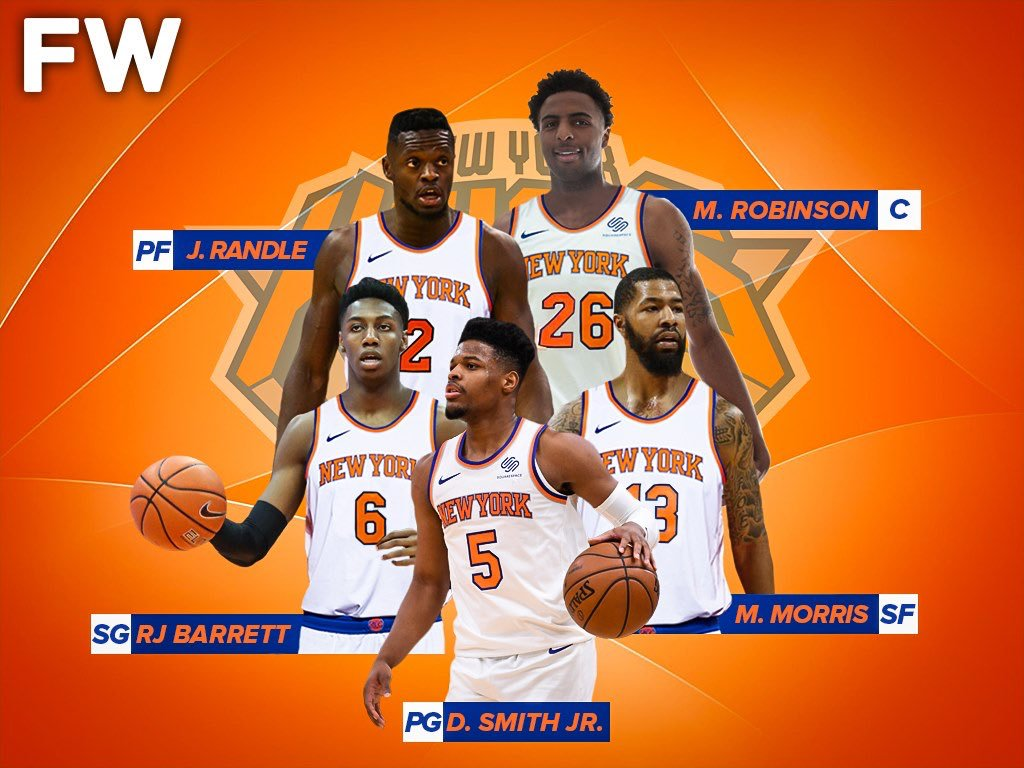
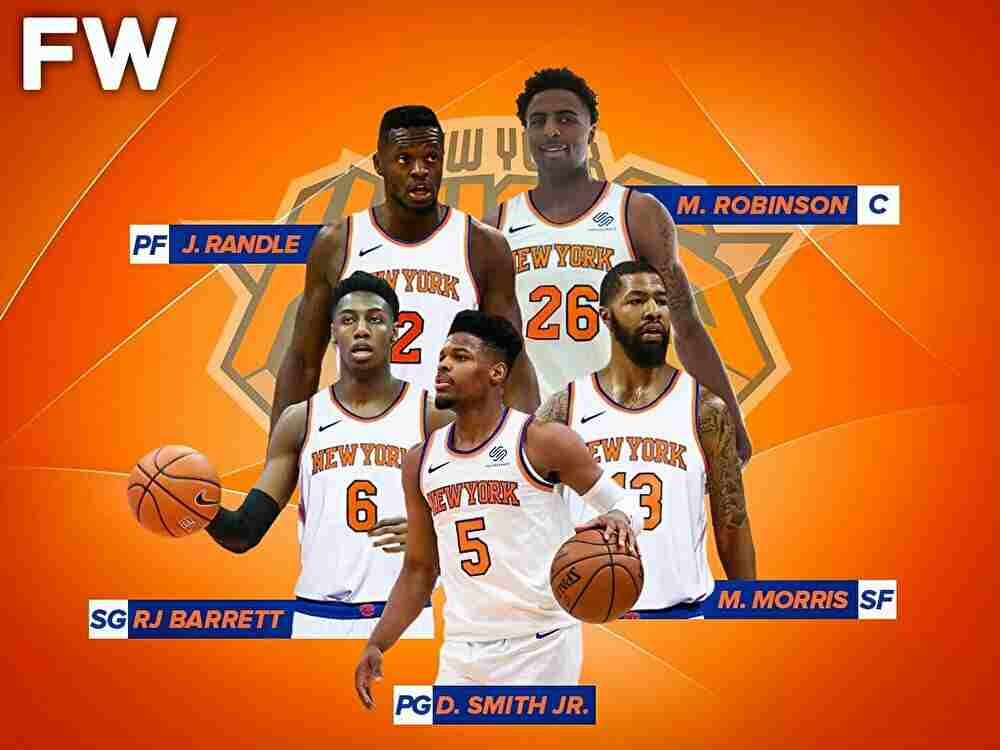
12/11
・画像圧縮化
・Yutubeパフォーマンス改善
・トップページチームホバー時商品非同期読み込み

diff --git a/app/assets/javascripts/player_video.js b/app/assets/javascripts/player_video.js
@@ -1,85 +1,67 @@
-var player;
-function onYouTubeIframeAPIReady() {
-  player = new YT.Player('sample01', {
-    height: '313',
-    videoId: '3XFX5zax5bM',
-    events: {
-      'onReady': onPlayerReady,
-      'onStateChange': onPlayerStateChange
+$(function(){
+
+  // トップページチーム名ホバー時slider動画・画像追加
+  $('.youtube_logo').on("click",function(){
+    $(this).parent().find("#video_cover").hide()
+    $(this).hide()
+    src_data = $(this).parent().find("div:first-of-type iframe").attr("src_data");
+    $(this).parent().find("div:first-of-type iframe").attr("src",src_data);
+    $(this).parent().find("div:first-of-type iframe").removeAttr("src_data");
+  })
+
+  //チームホバー時チーム商品非同期読み込み
+  $(".main_top_left_team,.main_top_right_team").hover(
+    function() {
+      team_name = $(this).attr("alt");
+      $.ajax({
+        url: '/item/team_item_autoscroll',
+        type: 'GET',
+        data: {
+          name: team_name
+        },
+        dataType: 'json'
+      }).done(function(data){
+          /* 通信成功時 */
+          $.each(data[0], function(index, item){
+            if(gon.current_user == false){
+              var checkitem = ""
+            }else if(data[1].indexOf(item.id) >= 0){
+              var checkitem = '<i class="fas fa-clipboard-check yet_check"></i>'
+            }else{
+              var checkitem = '<i class="far fa-clipboard not_check"></i>'
+            }
+            var additem_teamscroll = 
+                '<li>'+
+                  '<div class="main_category_items autoscroll">'+
+                    '<a href="'+item.siteurl+'" target="_blank">'+
+                      '<img src="'+item.imageurl+'">'+
+                        '<div class="main_category_items_cover">'+
+                          '<div class="main_category_items_cover_item">'+
+                            '<div class="main_category_items_cover_item_name">'+
+                              '<p>'+item.name+'</p>'+
+                            '</div>'+
+                            '<div class="main_category_items_cover_item_check">'+
+                              '<div class="main_category_items_cover_item_check_circle">'+checkitem+'</div>'+
+                            '</div>'+
+                          '</div>'+
+                          '<div class="main_category_items_cover_bottom"><i class="fas fa-bars"></i></div>'+
+                        '</div>'+
+                    '</a>'+
+                    '<div class="main_category_items_detail">'+
+                    '¥'+item.price.toLocaleString()+
+                    '</div>'+
+                  '</div>'+
+                '</li>'
+            $("#main_top_right_team_player_right_item"+team_name).append(additem_teamscroll);
+          }) 
+      }).fail(function(data){
+          /* 通信失敗時 */
+          alert("通信失敗！")
+      });
     },
-    playerVars: {
-      controls: 0, //再生ボタンとか出さない
-      showinfo: 0, //動画名とか出さない
-      disablekb: 1, //ショートカットキー無効
-      rel: 0 //関連動画出さない
+    function() {
+      //ホバー解除時は何もしない
     }
-  });
-}
+  );
 
-function onPlayerReady(event) {
-  event.target.playVideo();
-  event.target.mute();
-}
-//ココまではほぼサンプルと同じ
-
-var loopCount = 0;
-function onPlayerStateChange(event) {
-  if (event.data == YT.PlayerState.ENDED) {//動画が停止したら
-    if(loopCount < 20) {//ループ上限
-      event.target.seekTo(0,true);//動画の初めにシーク
-      event.target.playVideo();//動画を再生
-      loopCount++;
-    }
-  }
-}
-
-// 各プレーヤーの格納
-var ytPlayer = [];
-// プレーヤーのサイズ
-var ytWidth = 640;
-var ytHeight = 313;
-// 各動画情報
-var ytData = [];
-$.each(gon.youtube, function(index, team){
-  ytData.push({id: team.youtube_url,area: 'teamvideo_'+team.en_name});
-}) 
- 
-// 各プレーヤーの埋め込み
-function onYouTubeIframeAPIReady() {
-    for(var i = 0; i < ytData.length; i++) {
-        ytPlayer[i] = new YT.Player(ytData[i]['area'], {
-            width: ytWidth,
-            height: ytHeight,
-            videoId: ytData[i]['id'],
-            playerVars: {
-                rel: 0
-            },
-            events: {
-                'onReady': onPlayerReady,
-                'onStateChange': onPlayerStateChange
-            },
-            playerVars: {
-                    controls: 0, //再生ボタンとか出さない
-                    showinfo: 0, //動画名とか出さない
-                    disablekb: 1, //ショートカットキー無効
-                    rel: 0 //関連動画出さない
-                  }
-        });
-    }
-}
- 
-// 各プレーヤー準備完了後の処理
-function onPlayerReady(e) {
-  // e.target.playVideo();
-  //   e.target.mute();
-}
-var loopCount = 0;
-function onPlayerStateChange(event) {
-  if (event.data == YT.PlayerState.ENDED) {//動画が停止したら
-    if(loopCount < 20) {//ループ上限
-      event.target.seekTo(0,true);//動画の初めにシーク
-      event.target.playVideo();//動画を再生
-      loopCount++;
-    }
-  }
-}
+})

diff --git a/app/assets/stylesheets/item.scss b/app/assets/stylesheets/item.scss
@@ -695,14 +695,31 @@ $baby-blue: #f8faff;
   }
   iframe{
     // height:100%;
+    height:314px;
     width:100%;
   }
   #video_cover{
     position: absolute;
-    top:0;
+    top: 0;
     height: 100%;
     width:100%;
-    display: none;
+  }
+  .youtube_logo{
+    position: absolute;
+    top: 0;
+    left: 0;
+    right: 0;
+    bottom: 0;
+    margin: auto;
+    width: 11.5%;
+    height: 20%;
+    transition: 0.3s;
+    border-radius: 50%;
+    &:hover{
+      cursor: pointer;
+      width: 13%;
+      height: 25%;
+    }
   }
   .swiper-button-prev,
 .swiper-button-next {

diff --git a/app/controllers/item_controller.rb b/app/controllers/item_controller.rb
@@ -40,9 +40,13 @@ class ItemController < ApplicationController
 
   # トップページ
   def index
-    @items_popular = Item.all.order(click: "DESC").limit(10) #人気の商品
-    @items_all = Item.all.order("RAND()").page(params[:page])                #最新の商品
-    gon.youtube = Team.all                                   #youtubeApiUrl取得
+    @items_popular = Item.all.order(click: "DESC").limit(10)      #人気の商品
+    @items_all = Item.all.order("RAND()").page(params[:page])     #最新の商品
+    if user_signed_in? then
+      gon.current_user = true
+    else
+      gon.current_user = false
+    end
   end
 
   # 商品検索
@@ -116,6 +120,17 @@ class ItemController < ApplicationController
     if user_signed_in? then
       User.find(current_user.id).update(popupmessage_flg:params[:check_flg])
     end
+  end
+  # トップ画面チームホバー時商品自動スクロール
+  def team_item_autoscroll
+    @items_all = Item.where(team_id:params[:name]).order("RAND()").limit(30)
+    if user_signed_in? then
+      @checkitem = ItemUser.where(user_id:current_user.id).pluck(:item_id)
+    else
+      @checkitem = []
+    end
+    @ajax_items = [@items_all,@checkitem]
+    render json: @ajax_items
   end
 
 end

diff --git a/config/routes.rb b/config/routes.rb
@@ -17,4 +17,6 @@ Rails.application.routes.draw do
   get "item/checkitem" ,to:"item#checkitem"
   # ポップアップ非同期DB操作
   get "item/popupcheck" ,to:"item#popupcheck"
+  # チームホバー時商品非同期読み込み
+  get "item/team_item_autoscroll" ,to:"item#team_item_autoscroll"
 end
